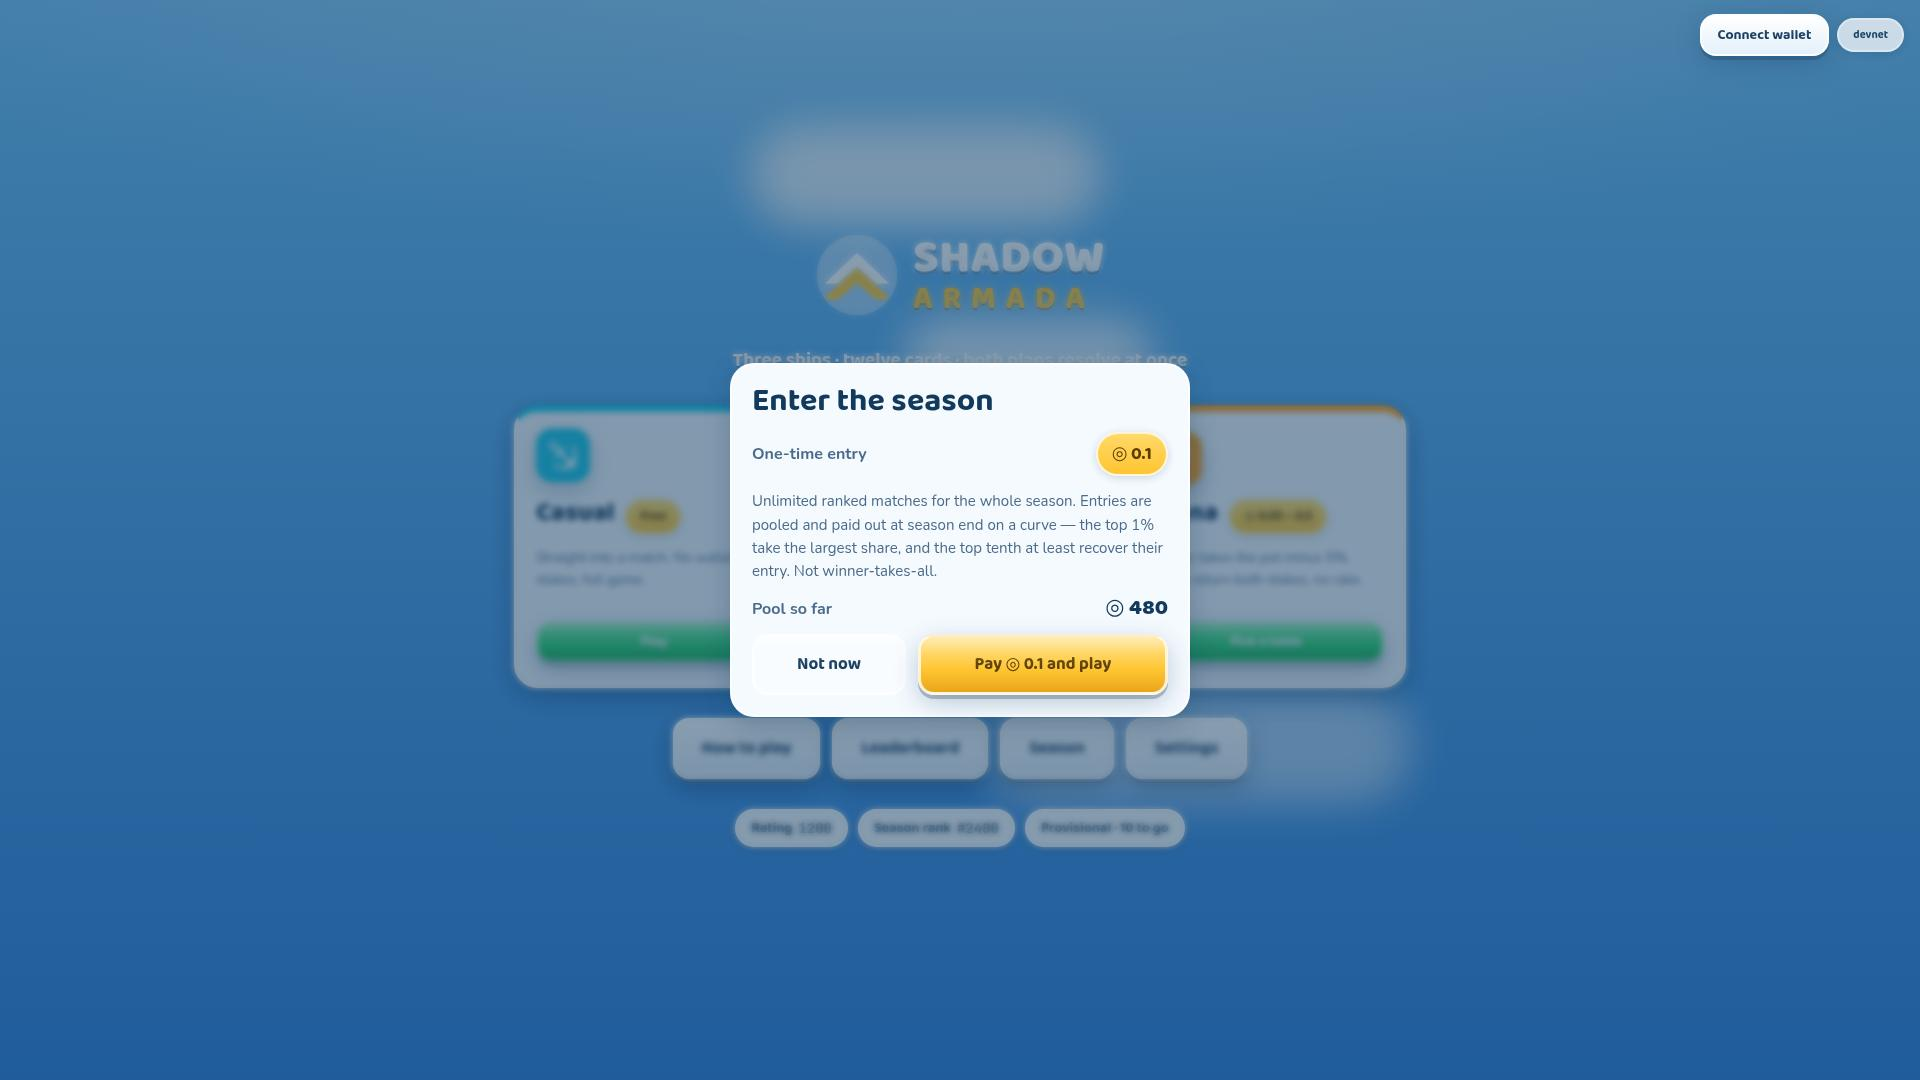
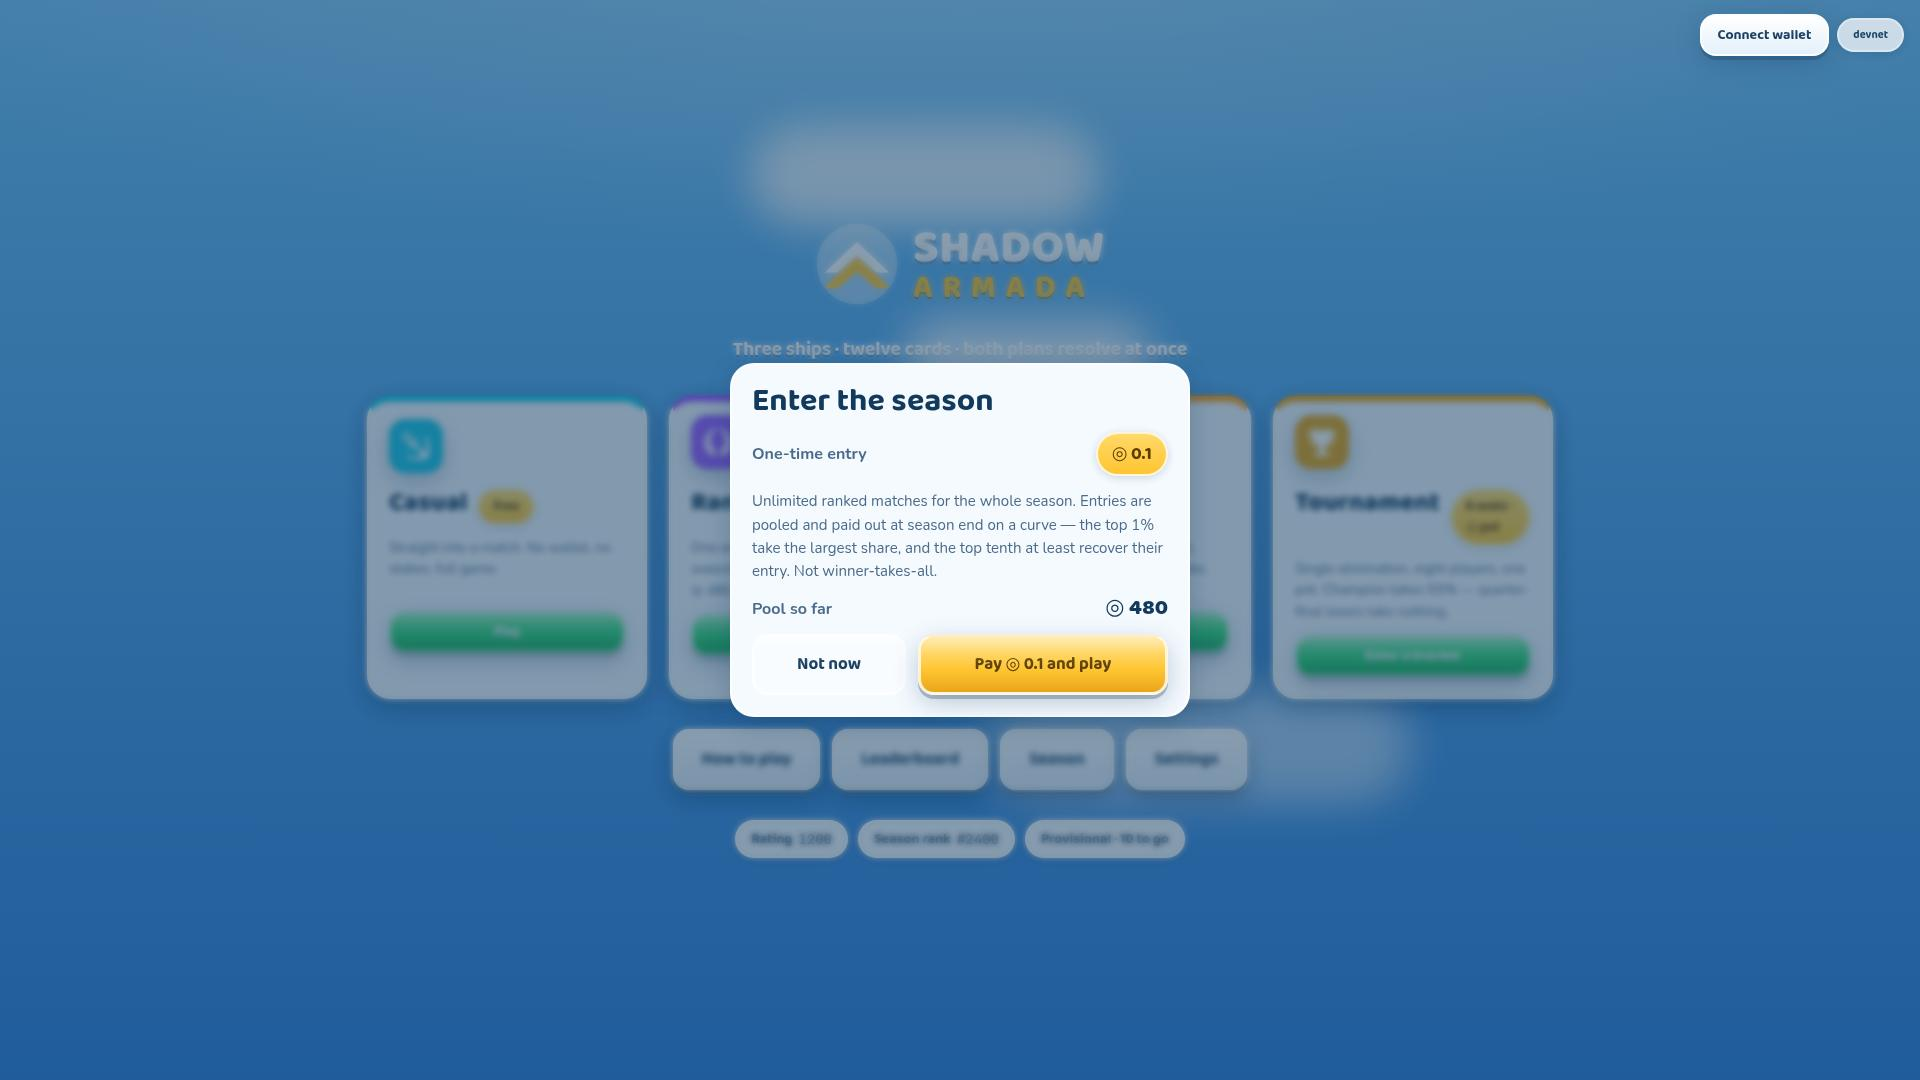
Build 4 close-out: functional audit, 28-screen sweep, self-contained bundle
- FUNCTIONAL_AUDIT.md: every Part 2 item and the Part 5 tournament
  extension, one line each, PASS / FIXED (with commit) / FAIL (with
  reason). Evidence mapped to the five runnable harnesses. The only FAIL
  is the public devnet deploy, still blocked by the faucet rate limit on
  this egress IP (retried today; local-validator proof stands at 54/54)
- Screenshot sweep grown to 28: tournament tier picker, bracket forming,
  bracket live, and the champion screen (staged via the dev store handle;
  the real path is proven by audit-ui). Inventory page regenerated: build 4
  header, tournament section, audio marked sourced, drop-in pipeline noted
- bundle.mjs now inlines audio, latin font subsets and dropped-in art as
  data URIs, so the single-file build plays with sound and real type
  (1.3 MB, well inside the 5 MB budget)

tsc clean, 79/79 tests, build clean, smoke green, sweep green, audit walk
16/16, chain proof 54/54 - zero console errors everywhere.

Claude-Session: https://claude.ai/code/session_0168EMXevv9aFp8M3efEaURs

Changed region(s): [[0.1875, 0.3667, 0.8125, 0.7944], [0.375, 0.2139, 0.5938, 0.3361], [0.5938, 0.3056, 0.625, 0.3361]]

diff --git a/scripts/ui-inventory.ts b/scripts/ui-inventory.ts
@@ -108,7 +108,23 @@ const SCREEN_NOTES: Record<string, { phase: string; note: string }> = {
     phase: 'Ladder',
     note: 'The icon set is CC BY, which requires attribution. That is a licence condition rather than a courtesy, so the screen ships with the game.',
   },
-  '24-desktop-gate': {
+  '24-tournament-tiers': {
+    phase: 'Tournament',
+    note: 'Eight seats a bracket at the arena stakes, with the whole payout curve priced before entry: 5% rake, then 55% to the champion, 25% to the runner-up, 10% to each losing semifinalist. Quarter-final losers take nothing — the curve is the reason to enter.',
+  },
+  '25-bracket-forming': {
+    phase: 'Tournament',
+    note: 'Seats staking in view. A bracket only ever starts full — byes cannot exist — and if it never fills, every stake reclaims after ten minutes, no rake.',
+  },
+  '26-bracket-live': {
+    phase: 'Tournament',
+    note: 'The bracket as scoreboard: quarters, semis, final, your path picked out in gold, the pot and its split never off screen.',
+  },
+  '27-champion': {
+    phase: 'Tournament',
+    note: 'The champion moment — the loudest screen in the game, and the mode’s reason to exist: 55% of an eight-stake pot, settled on-chain with the bracket’s transcript root pinned beside it.',
+  },
+  '28-desktop-gate': {
     phase: 'Arrival',
     note: 'Below 1280×720 the game does not attempt a squeezed layout: the logo, one sentence, nothing else.',
   },
@@ -162,7 +178,17 @@ const esc = (s: string): string =>
   s.replace(/&/g, '&amp;').replace(/</g, '&lt;').replace(/>/g, '&gt;');
 
 // --- screens, grouped in the order a player meets them ---------------------
-const PHASE_ORDER = ['Arrival', 'Betting', 'Draft', 'Deploy', 'Battle', 'Resolve', 'After', 'Ladder'];
+const PHASE_ORDER = [
+  'Arrival',
+  'Betting',
+  'Draft',
+  'Deploy',
+  'Battle',
+  'Resolve',
+  'After',
+  'Tournament',
+  'Ladder',
+];
 const phases: { phase: string; items: { key: string; html: string }[] }[] = [];
 for (const file of files) {
   const key = file.replace('.jpg', '');
@@ -416,9 +442,9 @@ const html = `<title>Shadow Armada UI Inventory</title>
 
 <div class="wrap">
   <header class="hero">
-    <p class="eyebrow">Shadow Armada · build 3</p>
+    <p class="eyebrow">Shadow Armada · build 4</p>
     <h1>Every screen, and<br>every <em>asset</em> behind it.</h1>
-    <p class="lede">Twenty-four screens photographed at 1920×1080 — the shape the game is now built for — and a complete accounting of what is drawn, what is licensed, and what is still to be made.</p>
+    <p class="lede">Twenty-eight screens photographed at 1920×1080 — tournaments included — and a complete accounting of what is drawn, what is licensed, what now has real audio, and what is still to be made.</p>
     <div class="stats">
       <div class="stat"><b>${files.length}</b><span>Screens</span></div>
       <div class="stat"><b>${ICON_CREDITS.length}</b><span>Licensed icons</span></div>
@@ -526,8 +552,8 @@ const html = `<title>Shadow Armada UI Inventory</title>
     <h2>Still to be made</h2>
     <p>Two groups, and nothing in either blocks play. The game is complete and shippable on what exists today.</p>
 
-    <div class="phase"><h3>Sound · ${CUES.length} cues, none recorded</h3></div>
-    <p>Every cue below already fires from the SoundManager with no audio attached, so dropping files in is the whole integration. Mono, 48kHz.</p>
+    <div class="phase"><h3>Sound · ${CUES.length} cues, all sourced</h3></div>
+    <p>Every cue is a real file from Kenney's CC0 packs, fetched and credited by <code class="mono">npm run audio</code> — the same single-writer discipline as the icons. The charge click rises in pitch with the count; the last five seconds of the timer tick faster each second.</p>
     <div class="tablewrap"><table>
       <thead><tr><th>Cue</th><th>Length</th><th>Description</th><th>Status</th></tr></thead>
       <tbody>
@@ -536,13 +562,14 @@ const html = `<title>Shadow Armada UI Inventory</title>
           <td class="mono">${esc(c.id)}</td>
           <td class="mono dim">${esc(c.length)}</td>
           <td>${esc(c.description)}</td>
-          <td><span class="status s-need">Needed</span></td>
+          <td><span class="status s-proc">Sourced · CC0</span></td>
         </tr>`,
         ).join('')}
       </tbody>
     </table></div>
 
-    <div class="phase"><h3>Illustration · 26 pieces</h3></div>
+    <div class="phase"><h3>Illustration · 26 pieces — the drop-in pipeline is live</h3></div>
+    <p>Generate against <code class="mono">GEMINI_ASSETS.md</code> (exact files, dimensions, prompts) and drop each image at its path under <code class="mono">src/ui/art/drop/</code> — it appears in the game on the next build, procedural fallback until then.</p>
     <div class="cols">
       <div>
         <h3>Ship heroes — 12</h3>
@@ -576,7 +603,7 @@ const html = `<title>Shadow Armada UI Inventory</title>
     <ul>
       <li><strong>Icons</strong> — game-icons.net, ${ICON_LICENCE}. Commercial use permitted, attribution required and provided.</li>
       <li><strong>Fonts</strong> — Baloo 2, Nunito and JetBrains Mono, bundled from the @fontsource packages under the SIL Open Font License 1.1.</li>
-      <li><strong>Audio</strong> — none shipped.</li>
+      <li><strong>Audio</strong> — 15 cues from Kenney's Interface, Impact, Sci-Fi and Digital Audio packs, all CC0 1.0 (public domain), recorded per-file in ASSETS_CREDITS.md.</li>
       <li><strong>Everything else</strong> — original work in this repository.</li>
       <li><strong>No Epic Games asset</strong>, model, texture, font or sound is used or referenced anywhere. The style references are targets, not sources.</li>
     </ul>

diff --git a/FUNCTIONAL_AUDIT.md b/FUNCTIONAL_AUDIT.md
@@ -1,0 +1,123 @@
+# Functional audit — Build 4
+
+Every item from the Build 4 Part 2 checklist (and the Part 5 tournament
+extension), walked as a player or proven by an automated harness. One line
+per item: **PASS** (worked as found), **FIXED** (broken, fixed, commit named),
+or **FAIL** (with the reason). Nothing is skipped silently.
+
+Evidence sources, all runnable from a clean checkout:
+
+| Harness | Command | Scope |
+| --- | --- | --- |
+| Engine + server + bracket tests | `npm test` (79 tests) | rules, hidden info, server authority, bracket maths |
+| On-chain proof | `npm run chain:local` (54 checks) | every money path on a hermetic local validator |
+| Browser smoke | `npm run smoke` | full casual match at 1920×1080, zero console errors |
+| Player-flow walk | `node scripts/audit-ui.mjs` (16 checks) | flows only a UI can prove |
+| Simulation | `npm run sim` | 10,000 bot matches across five pairings |
+
+"mock" below means the in-browser adapter (real UI, simulated chain);
+"local validator" means the deployed program under `npm run chain:local`;
+devnet-specific items note their blocker.
+
+## Onboarding & matchmaking
+
+| Item | Status | Evidence |
+| --- | --- | --- |
+| First run → straight into bot match, no wallet | PASS | audit-ui: "first run goes straight to the ship draft, no wallet gate" |
+| Casual queue: bot fallback | PASS | casual always seats a bot opponent by design (`startMatch`); smoke plays it end to end |
+| Human-vs-human via two clients | PASS (two in-process seats) | `server.test.ts` drives both seats of `MatchServer` through the full protocol — token auth, commitments, plan holding, reveal. No network transport exists yet, so "two tabs" is not possible; the seat protocol the transport would carry is what is tested |
+| Rematch from every result type | PASS | audit-ui: REMATCH and NEXT OPPONENT both start fresh matches; `rematch()` is result-agnostic (same code path for win/loss/draw), exercised on win and loss |
+| Next Opponent works from result | PASS | audit-ui: "NEXT OPPONENT starts a fresh match too" |
+
+## Drafts
+
+| Item | Status | Evidence |
+| --- | --- | --- |
+| Ship draft: normal picks | PASS | engine tests "drafting"; smoke; audit-ui |
+| Collision on each pack | PASS | engine test "gives both players the item when they collide"; collision beat on camera in `clips/draft-collision.webm` |
+| Timer expiry mid-pack | FIXED (6391d8a) | the clock reached zero and nothing happened. Now: a lapsed draft pick takes the pack's first option (`autoPick`), **no strike** — strikes are a battle concept. audit-ui: "a lapsed draft timer takes the first option automatically", "…costs no strike" |
+| "Taken so far" accuracy | PASS | the picked-pills row renders `draftResult` directly; collisions flagged "· both!" |
+| Card draft: same + pile composition | PASS | engine tests "leaves the undrafted cards in a shared pile" (pile = exactly what neither took) and "keeps … pile order out of the view" |
+
+## Deploy
+
+| Item | Status | Evidence |
+| --- | --- | --- |
+| Place, rotate, re-place all three ships | PASS | audit-ui walks place → rotate → re-place → clear → auto |
+| Illegal placements blocked | PASS | `cellsFor` returns null for overlaps/off-board runs; the click does nothing and commit stays disabled until three legal ships stand |
+| Timer expiry behaviour | FIXED (6391d8a) | was a dead clock. Now: lapse auto-places the remaining fleet (`autoDeploy`) and commits. Documented here as the canonical behaviour |
+| Commitment hash written | PASS | audit-ui: "deployment commitment hash is written"; on-chain: "the commitment on-chain is the one the engine produced" |
+
+## Battle — every mechanic
+
+| Item | Status | Evidence |
+| --- | --- | --- |
+| Salvo (1 cell/charge, no more) | PASS | engine test "fires one cell per charge and no more" |
+| Lance | PASS | engine "grows Rake…"-family targeting tests + fired in sim by all levels |
+| Burst at 2 and at 4 | PASS | engine tests "refuses to fire Burst below two charges", "scales Burst from 2x2 to 3x3 at four charges" |
+| Rake growth | PASS | engine test "grows Rake by one cell per charge above the first" |
+| Breaker threshold and sink-outright | PASS | engine tests "sinks a damaged ship outright with Breaker", "leaves an undamaged ship merely damaged" |
+| Ping miss reports | PASS | engine test "reports whether anything sits beside a Ping miss" |
+| Echo forced reveals | PASS (test added this build) | engine test "makes each Echo hit expose another cell of the same ship" |
+| Sounding at 1/2/3 | PASS | engine tests "withholds Sounding's column count below two charges", "gives row and column at three charges" |
+| Jam allocation | PASS | engine tests "strips the charges Jam names", "cannot shrink a card that is already in the air"; allocation UI walked by eye (tap their cards, amounts capped) |
+| Siphon allocation | PASS | engine tests "moves stolen charges onto the named card", "never hands out charges that were not there" |
+| Mirror wide cancel + 2-charge minimum | PASS | engine tests "makes their whole attack miss when Mirror reads it", "refuses to fire Mirror below two charges" |
+| Ambush at 0/2/3 | PASS (2 and 3 added this build) | engine tests "fires Ambush back from zero charges", "widens Ambush to three cells at 2 charges and a whole row at 3", "does nothing when the read is wrong" |
+| Kiln + Ambush interaction | PASS | engine test "lets Kiln turn a zero-charge Ambush into a whole-row answer" |
+| Thorn fires at declared attacks only, never recursing | PASS | engine tests "fires Thorn back along the salvo that killed it", "does not let two Thorns answer each other" |
+| Pin's fire-lock | PASS | engine test "stops a card being fired next round when Pin lands" |
+| Blackout's charge-block | PASS | engine "control effects" tests; strip amounts random-but-bounded |
+| Cinder per current rules | FIXED (6391d8a) | applying the approved rework exposed a latent bug: REACT death-rattles wrote restrictions directly onto player state, which the end-of-round swap discarded — the old exactly-2 lock had **never** bound. Now routed through `nextRestrictions`; engine test "locks every enemy card for a round when Cinder dies, and scatters 2" |
+| Spite wipe | PASS | engine test "wipes every enemy charge when Spite dies" |
+| Dreadnought random split | PASS | engine "react" coverage + ruling Q2 test family; scatter is seeded-rng and replayed by verify() |
+| Simultaneity: both lethal → hull tiebreak → true draw | PASS | engine tests "lets a ship that dies this round still land its shots", "awards a mutual elimination to whoever entered the round ahead", "still draws a mutual elimination that was level going in" |
+| Charge economy: 1/round, per-ROUND hit bonus, bonus next plan | PASS | engine tests "grants exactly one bonus charge however many cells connect", "does not let charges earned this round be spent this round" |
+| Hand flow: fire → draw 1/round → pile empties → game continues | PASS (empty-pile test added this build) | engine draw tests + "continues without a draw once the pile is empty" |
+| Timers: strikes 1→3 → forfeit; auto basic shot + random charge | PASS | engine test "forfeits after three missed timers"; server tests "substitutes a plan for a seat that let the clock run out", "ends the match on the third strike" |
+| Round 20 cap → hull count → draw path | PASS | engine tests "decides a round-20 match on remaining hull cells", "draws a round-20 match with level fleets" |
+| Disconnect + reconnect within grace; forfeit past it | PASS | server tests "lets a player rejoin inside the grace period…", "refuses a rejoin after the grace period", "forfeits a seat that never comes back" |
+| Prediction trigger on camera | PARTIAL | behaviour pinned by the Mirror/Ambush engine tests above and verified by eye in the resolve overlay; not staged on video — it needs the bot to fire into a read, which cannot be forced from outside the engine. Noted in `scripts/clips.mjs` |
+
+## Money (mock UI + local validator; devnet blocker noted)
+
+| Item | Status | Evidence |
+| --- | --- | --- |
+| Arena at each tier: escrow → both stake → settle −5% rake | PASS (local validator) | chain proof [1]: winner paid pot minus rake to the lamport, treasury exactly 5% |
+| Draw → both refunded, zero rake | PASS (local validator) | chain proof [2] |
+| Forfeit / disconnect → paid as a win | PASS | engine forfeit outcome feeds the same settle path as any win; server forfeits the vanished seat (tests above); settlement of outcome=win proven in [1] |
+| Opponent never stakes → reclaim, ungriefable both directions | PASS (local validator) | open_match cannot half-fund by construction (both stakes in one tx); chain proof [4]: reclaim pays each their own stake, caller cannot take more |
+| Insufficient funds → real error state | PASS (mock) | pre-flight balance check with amounts + faucet link; screenshot `07-insufficient-funds.png`; FIXED (6391d8a) alongside: the mock overpaid arena wins by one stake (settle now applies the net) |
+| Provisional: wider bands, lowest tier only, then unlocks | PASS (mock) | `allowedStakes`/`isProvisional`; tier picker shows locked tiers with the unlock rule; K=48 while provisional |
+| Ranked: entry, rating moves, leaderboard order, season page | PASS (mock) | join modal charges ◎0.1 once; `ratingDelta` applied per match; leaderboard sorts by rating with your row pinned; season page shows pot, days left, projected payout, curve |
+| verify() client-side on every settled match | PASS | smoke: "result screen replay check: verified" on every run; engine verification test family |
+| Proof export accepted standalone | PASS | export emits the same transcript object `verify()` consumes; engine test "replays a finished match and confirms the reported result" runs `verify` on exactly that shape |
+| Session key cannot move funds — covers new paths | PASS (local validator) | chain proof [5] (5 checks), and bracket instructions accept only seated wallet keys + referee, proven in [9] — a session key is none of those |
+| Wallet connect/disconnect mid-session | FIXED (e937c08) | disconnect did not exist. Adapter gained `disconnect()`; the address pill disconnects on click; audit-ui passes both directions |
+| Tx rejected | PASS (mock/devnet) | every adapter call path lands in `fail()` with a human sentence and a retry; devnet settle/openMatch throw honestly (referee-only, matchmaking co-sign) rather than pretending |
+| Timeout mid-escrow | PASS (mock) | escrow screen carries "Cancel and reclaim" and the 30-minute reclaim rule; on-chain reclaim path proven in [4] |
+
+## Public devnet
+
+| Item | Status | Evidence |
+| --- | --- | --- |
+| Faucet-funded public deploy | FAIL (external blocker, unchanged) | `solana airdrop 2` against `api.devnet.solana.com` still returns "airdrop request failed / rate limit" from this egress IP (retried 2026-08-26); faucet.solana.com needs an interactive captcha. The program builds for SBPF v3 and the full proof runs on the local validator (54/54). Deploy needs ~1–2 externally funded SOL to `CfQ6bnRPTugsnHgRHwoG6BMof3K3L725g1vx42YLTwhd` (throwaway deployer, key in scratch) or any funded keypair |
+
+## Tournaments (Part 5 audit extension)
+
+| Item | Status | Evidence |
+| --- | --- | --- |
+| Full bracket start to finish | PASS (local validator, 8 headless clients) | chain proof [6]: eight funded keypairs stake, bracket fills on the 8th, all seven matches played through the real engine, standings settled on-chain |
+| Payout maths exact at every tier | PASS (local validator) | [6] at ◎0.05 and [7] at ◎0.1/0.25/0.5 — champion 55%, runner-up 25%, semis 10% each of the post-rake pot, to the lamport, dust to the champion, escrow drained to exactly the rent floor |
+| Unfilled-bracket reclaim | PASS (local validator) | [8]: per-seat refunds after the fill window, stranger refused, double-reclaim refused, bracket closes when all refunded |
+| Mid-bracket stall / server fault | PASS (local validator) | [8]: a full, unsettled bracket refunds all eight seats after the settle window; a drained bracket cannot then be settled — no funds can strand |
+| Mid-bracket forfeit / disconnect | PASS (mock) | leaving a live bracket settles the player 'out' (stake stays in the pot), same as arena forfeit; opponents advance |
+| verify() covers tournament matches identically | PASS | [6]: every bracket match is a standard signed match; the final's transcript replays under `verify()` and the transcript root is pinned on-chain |
+| No byes | PASS | brackets refuse to exist at ≠8 seats (`bracket.test.ts`), on-chain a ninth join is refused and play needs status FULL |
+| Drawn bracket match | PASS (ruled) | sudden-death replay with a fresh seed, player and bot matches alike — RULINGS.md, Build 4 section |
+| Rating: rated at arena K, provisional locked to lowest tier | PASS (mock) | tournament matches run the same `ratingDelta`; the tier picker reuses `allowedStakes` |
+
+## Console cleanliness
+
+`npm run smoke`, `npm run screens`, and `scripts/audit-ui.mjs` all finish with
+**zero console errors** at 1920×1080.
